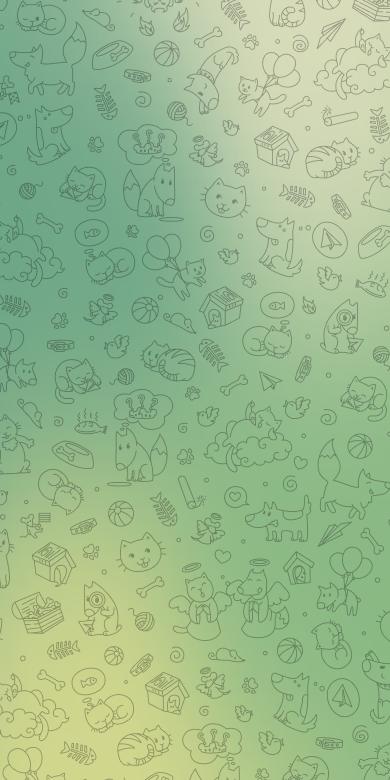
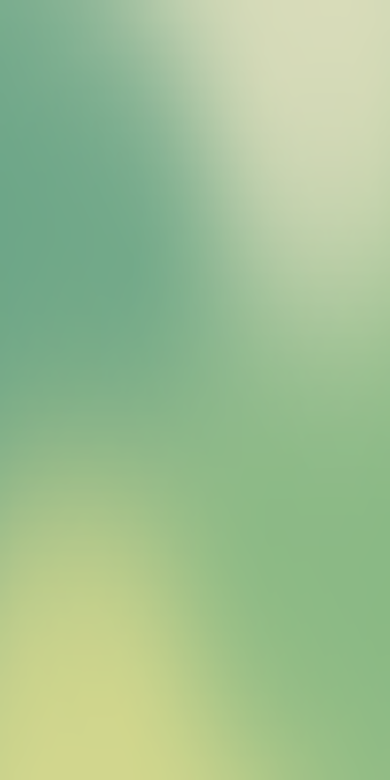
.

diff --git a/index.html b/index.html
@@ -67,6 +67,16 @@
     <!-- End Meta Pixel Code -->
   </head>
   <body class="no_transition">
+    <div class="tgme_background_wrap">
+      <canvas
+        id="tgme_background"
+        class="tgme_background default"
+        width="50"
+        height="50"
+        data-colors="dbddbb,6ba587,d5d88d,88b884"
+      ></canvas>
+      <div class="tgme_background_pattern default"></div>
+    </div>
     <div class="tgme_page_wrap">
       <div class="tgme_head_wrap">
         <div class="tgme_head">
